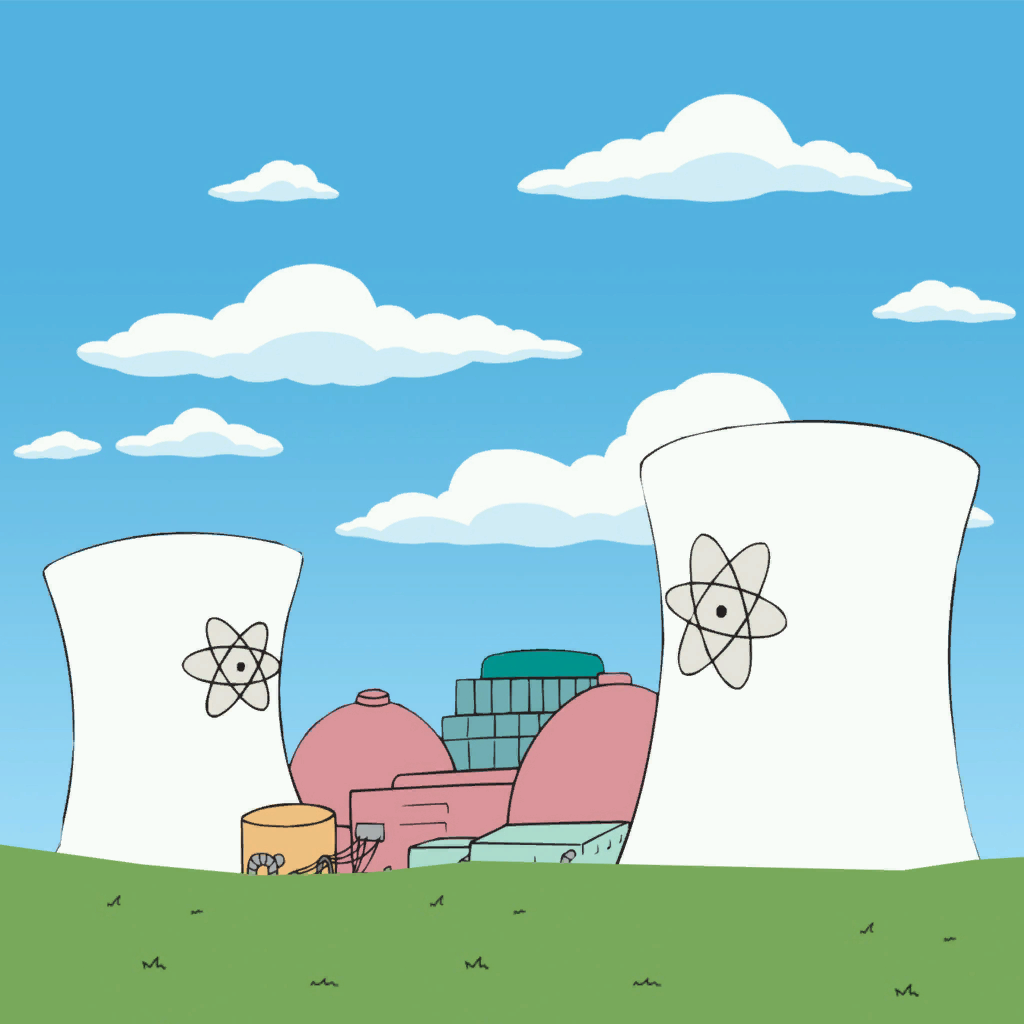
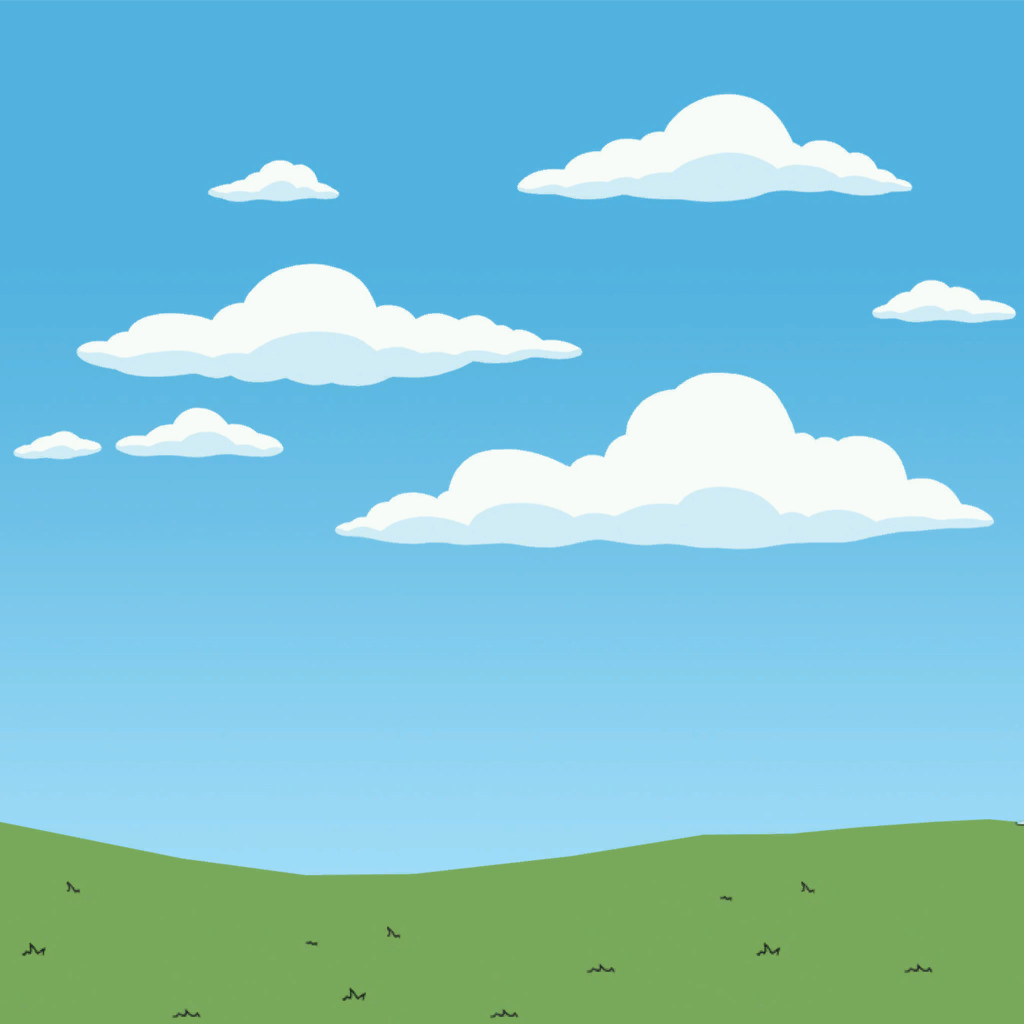
remove screen resize & change images

Changed region(s): [[0.0, 0.4062, 1.0, 0.875], [0.875, 0.9375, 0.9062, 0.9688], [0.125, 0.9375, 0.1562, 0.9688]]

diff --git a/index.html b/index.html
@@ -11,9 +11,6 @@
 <script src="js/Detector.js"></script>
 <script src="js/stats.js"></script>
 <script src="js/OrbitControls.js"></script>
-<script src="js/THREEx.KeyboardState.js"></script>
-<script src="js/THREEx.FullScreen.js"></script>
-<script src="js/THREEx.WindowResize.js"></script>
 
 <div id="ThreeJS" style="position: absolute; left:0px; top:0px"></div>
 <script>
